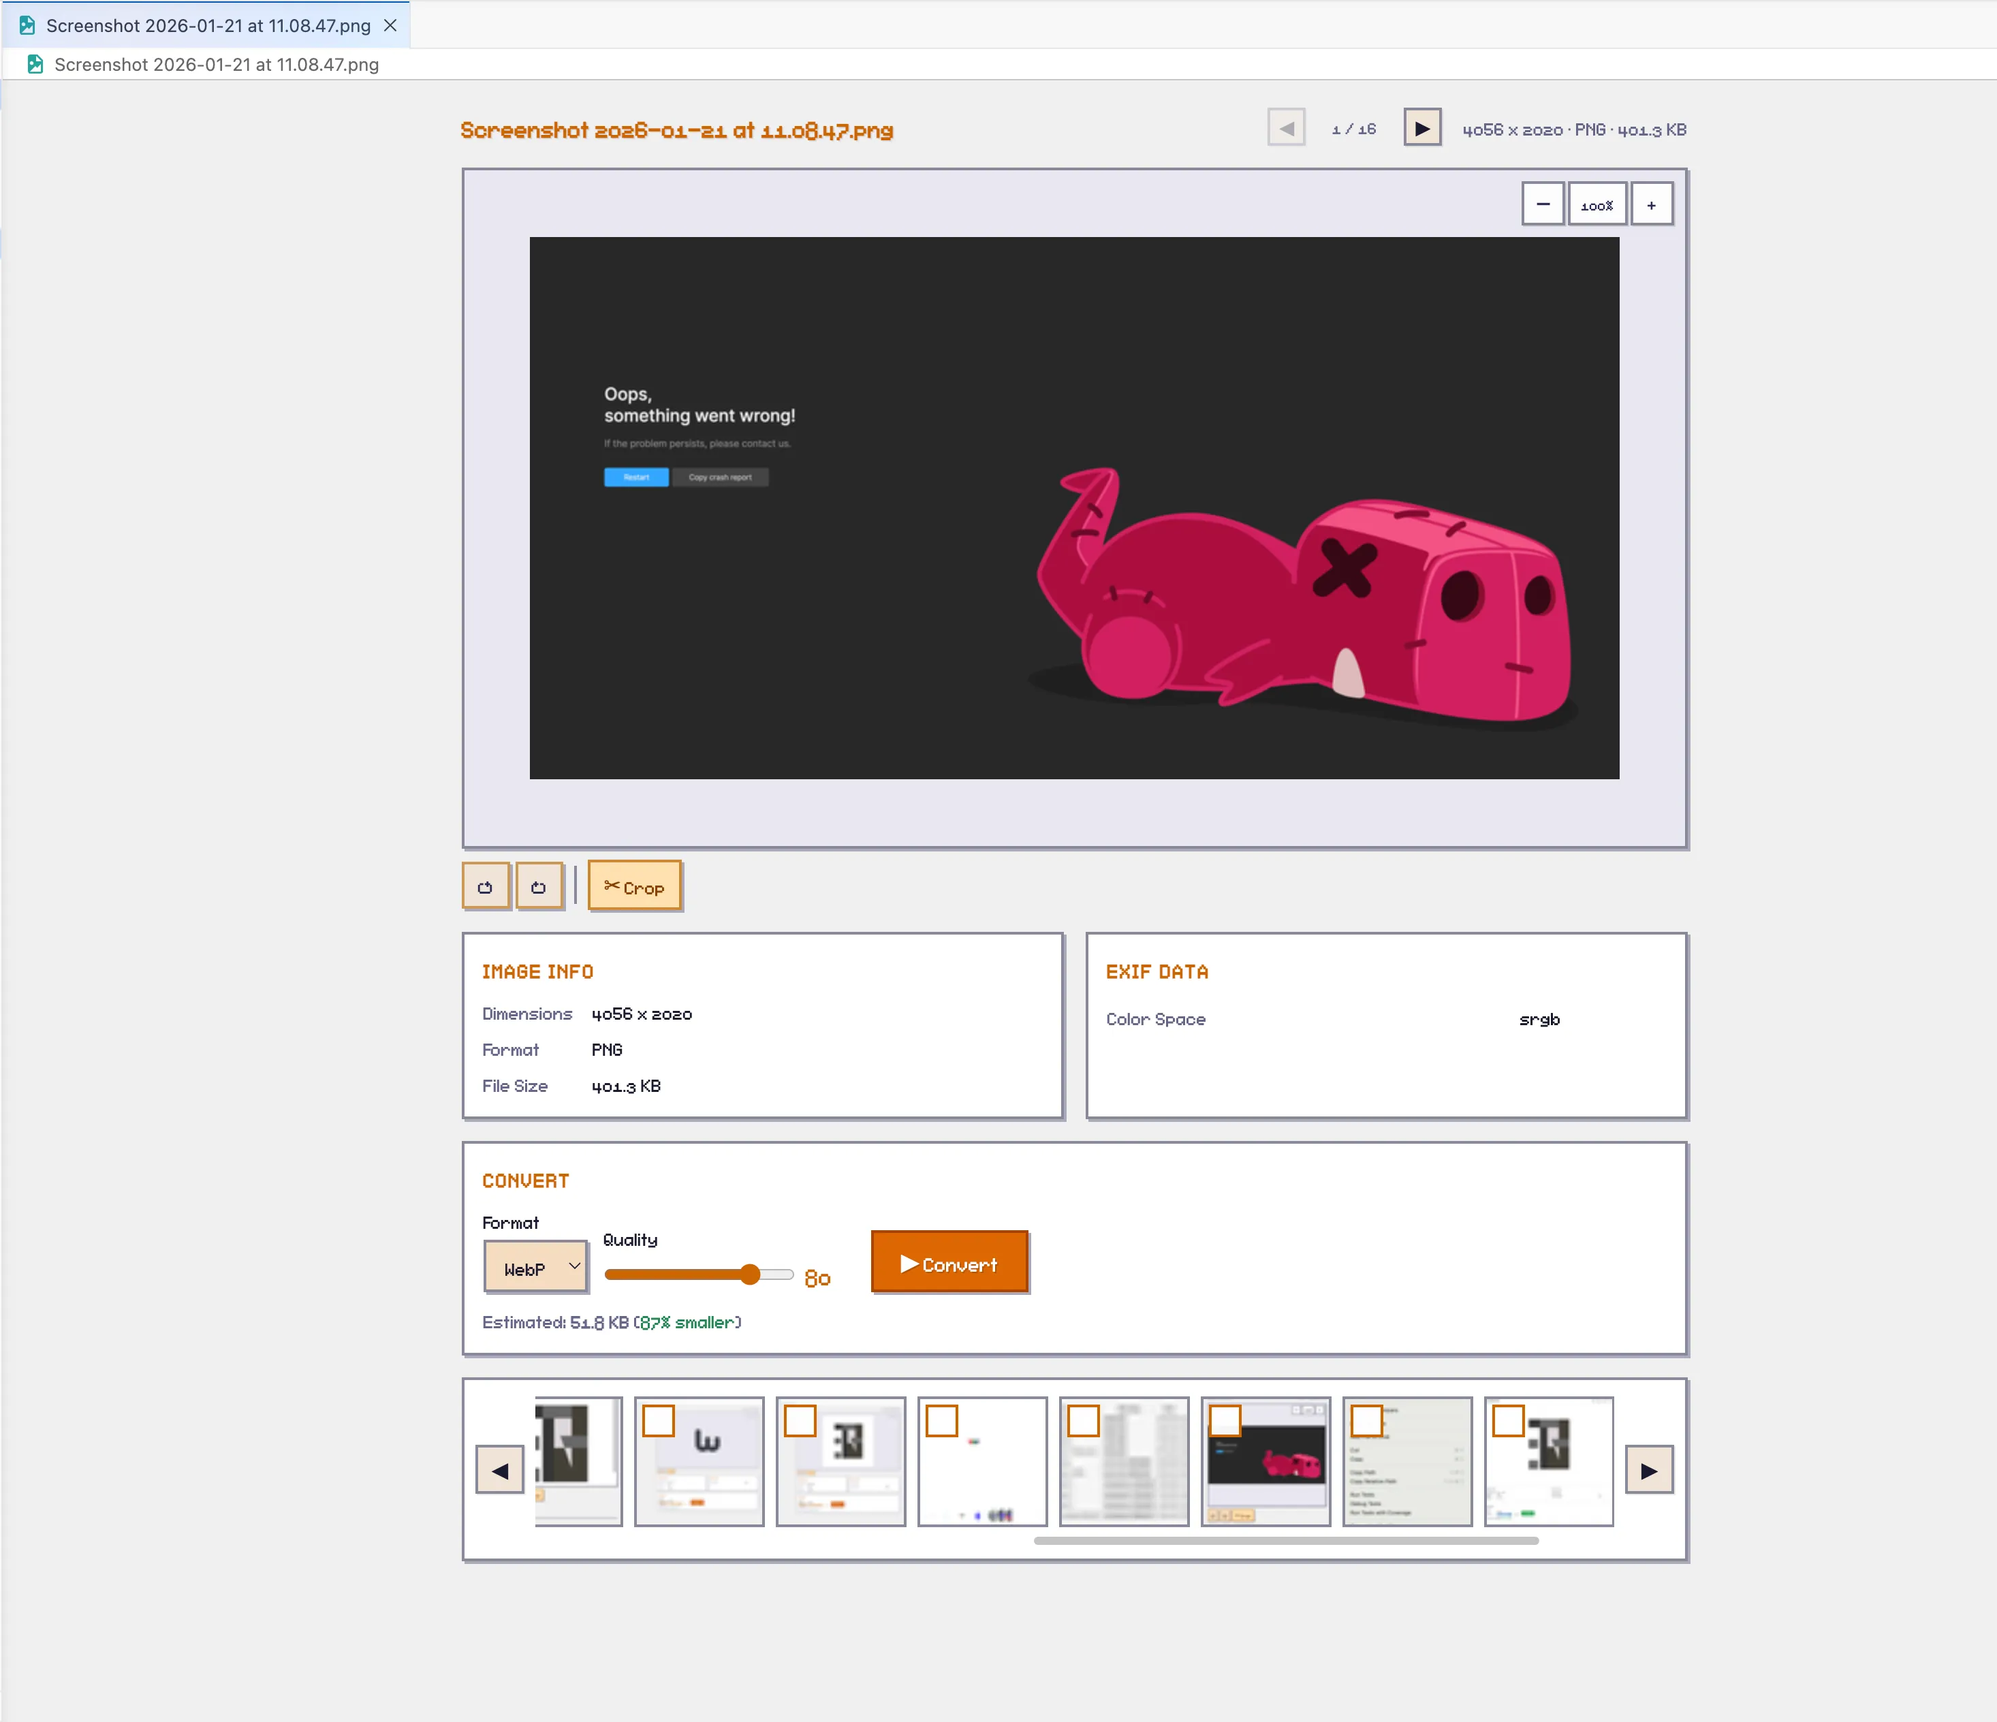
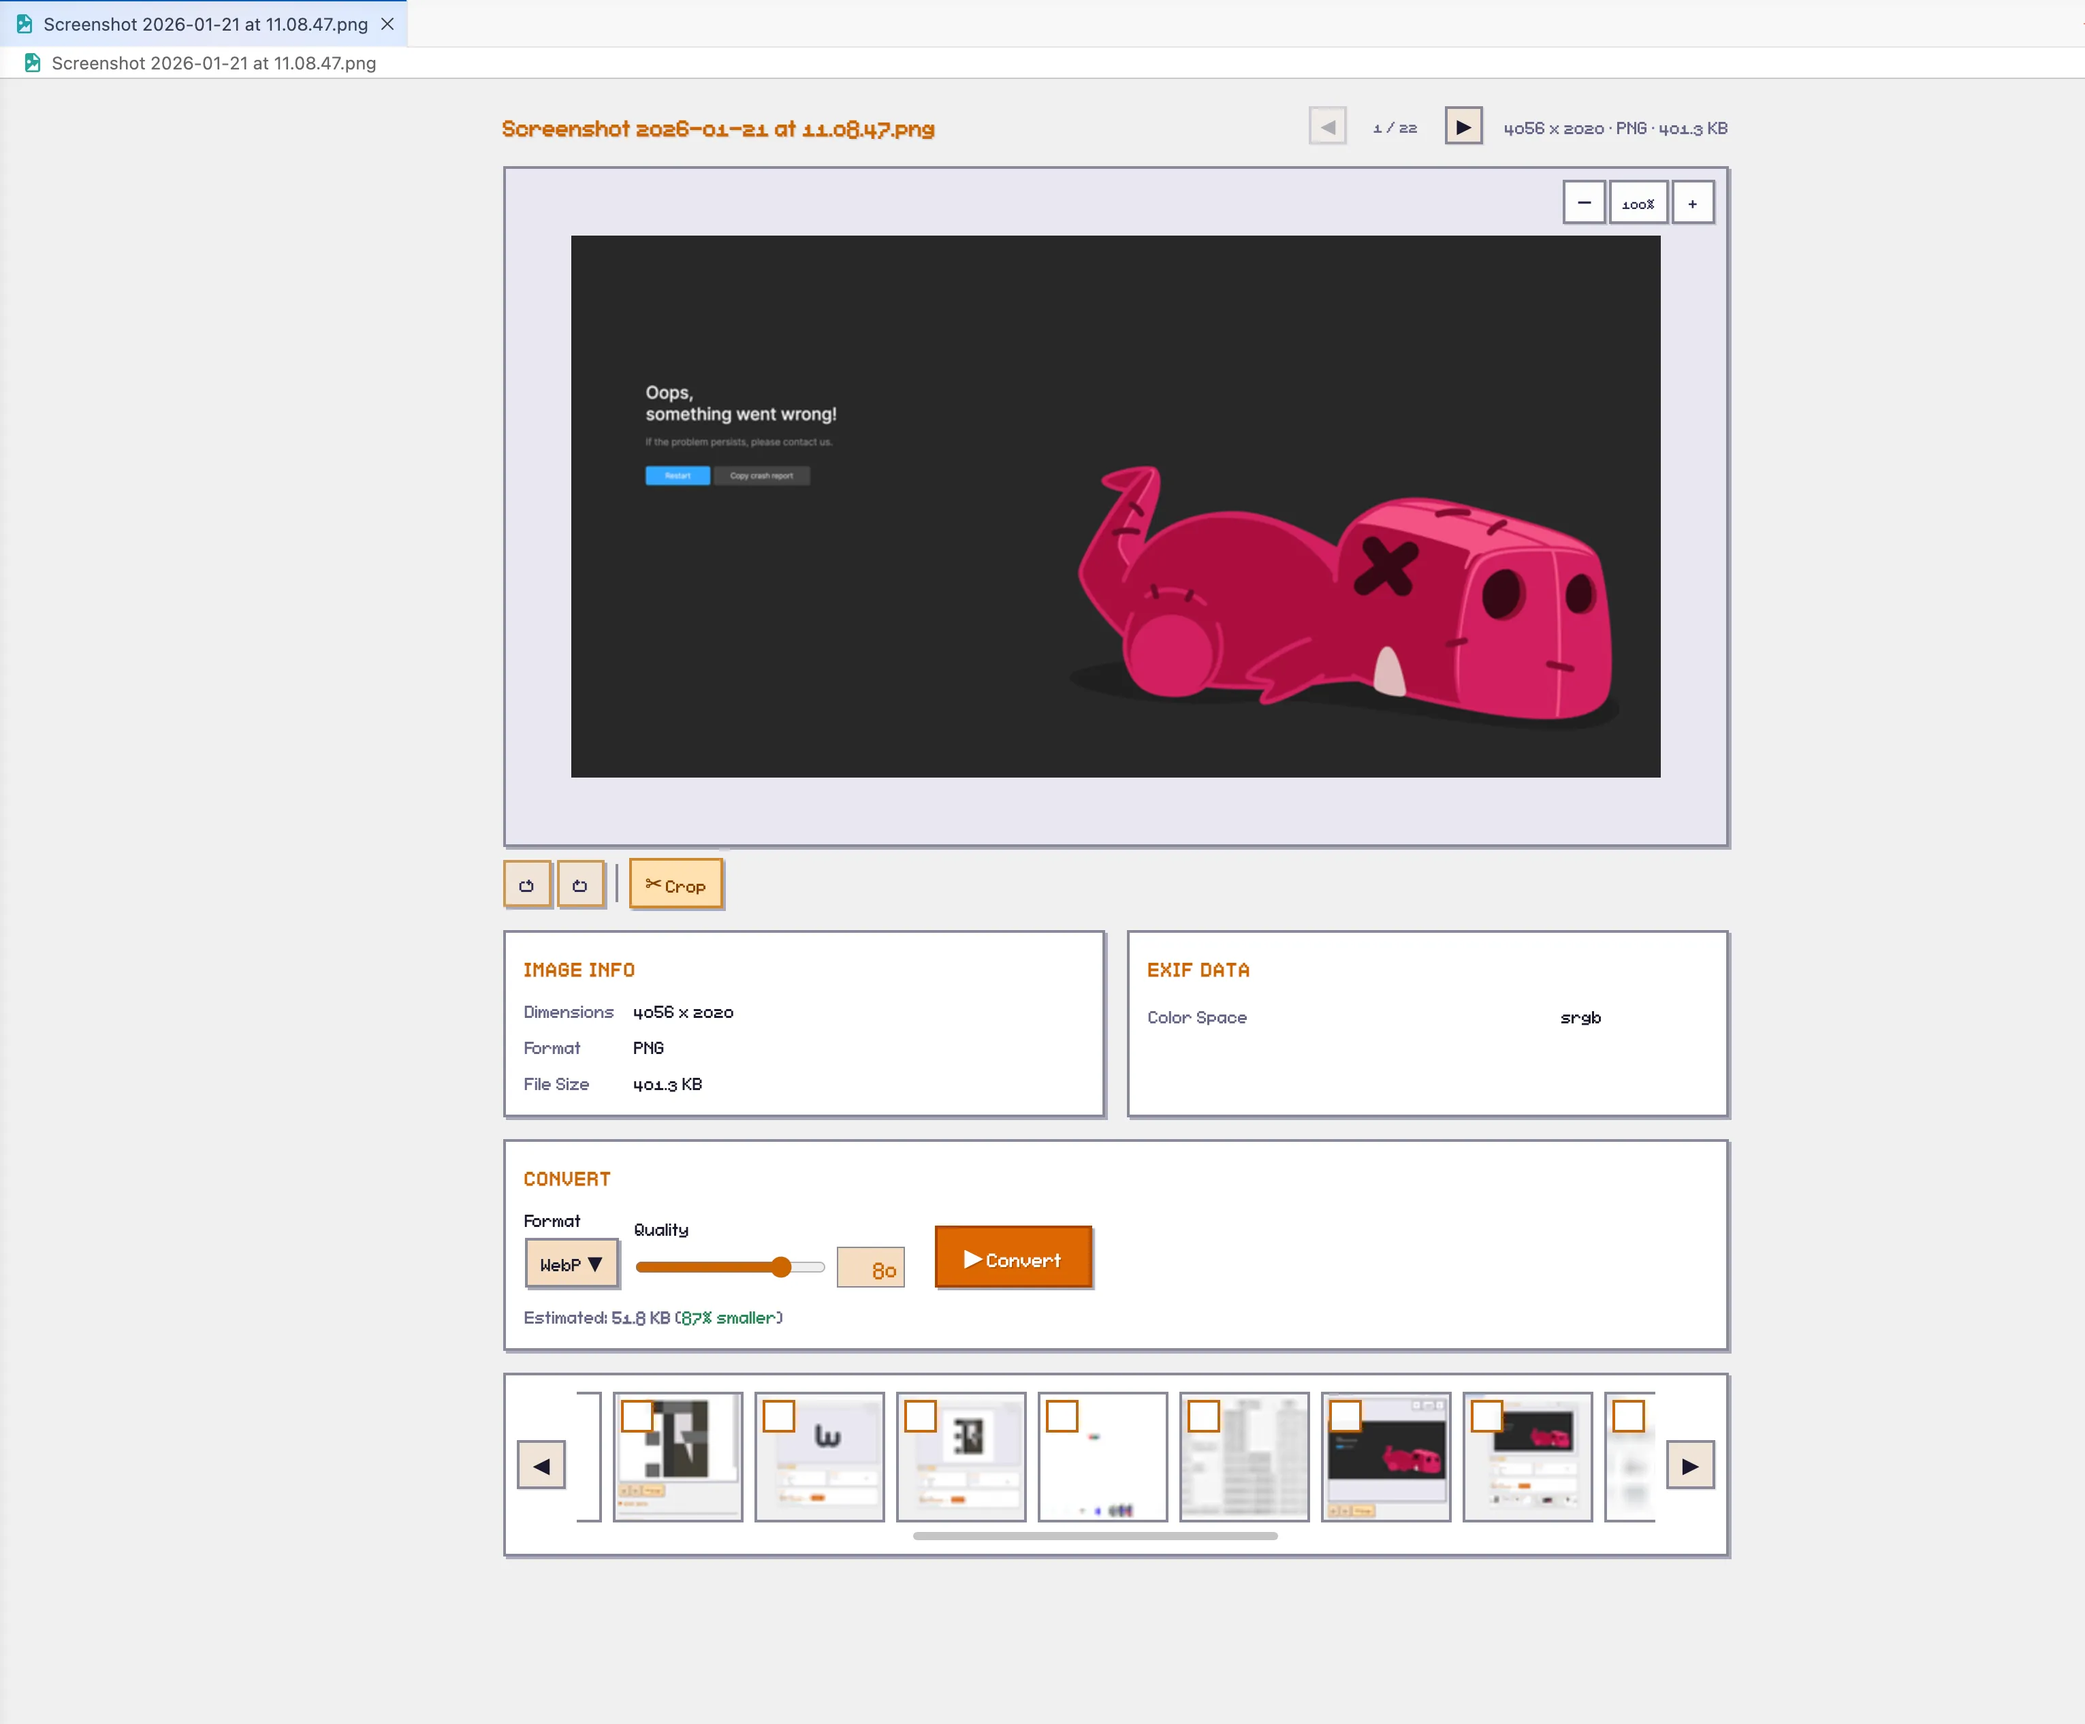
fix preview in panel

Changed region(s): [[0.2173, 0.0625, 0.869, 0.9062], [0.0, 0.0, 0.2173, 0.0625], [0.2173, 0.0625, 0.4656, 0.125]]

diff --git a/src/providers/ConvertPanelProvider.ts b/src/providers/ConvertPanelProvider.ts
@@ -728,6 +728,7 @@ export class ConvertPanelProvider implements vscode.WebviewViewProvider {
         formatOptions.forEach(function(opt) { opt.classList.remove('selected'); });
         this.classList.add('selected');
         updateUI(); // Trigger re-render
+        requestEstimate(); // Update estimated size
       });
     });
 
@@ -1050,7 +1051,7 @@ export class ConvertPanelProvider implements vscode.WebviewViewProvider {
             var savingsClass = saved > 0 ? 'est-savings' : 'est-increase';
             var savingsLabel = saved > 0 ? saved + '% smaller' : Math.abs(saved) + '% larger';
             estimateBox.style.display = '';
-            var fmtLabel = outputFormat.options[outputFormat.selectedIndex].text;
+            var fmtLabel = formatLabel ? formatLabel.textContent : 'WebP';
             estimateText.innerHTML =
               'Estimated ' + fmtLabel + ': <span class="est-size">' + formatSize(estSize) + '</span>' +
               ' (<span class="' + savingsClass + '">' + savingsLabel + '</span>)';
@@ -1239,7 +1240,7 @@ export class ConvertPanelProvider implements vscode.WebviewViewProvider {
         btnConvert.textContent = '\u25FC Converting...';
       } else {
         var cropLabel = state.cropData ? ' (cropped)' : '';
-        var fmtName = outputFormat.options[outputFormat.selectedIndex].text;
+        var fmtName = formatLabel ? formatLabel.textContent : 'WebP';
         var count = filesToConvert.length;
         btnConvert.textContent = count > 0
           ? '\u25B6 Convert ' + count + ' file(s) to ' + fmtName + cropLabel
